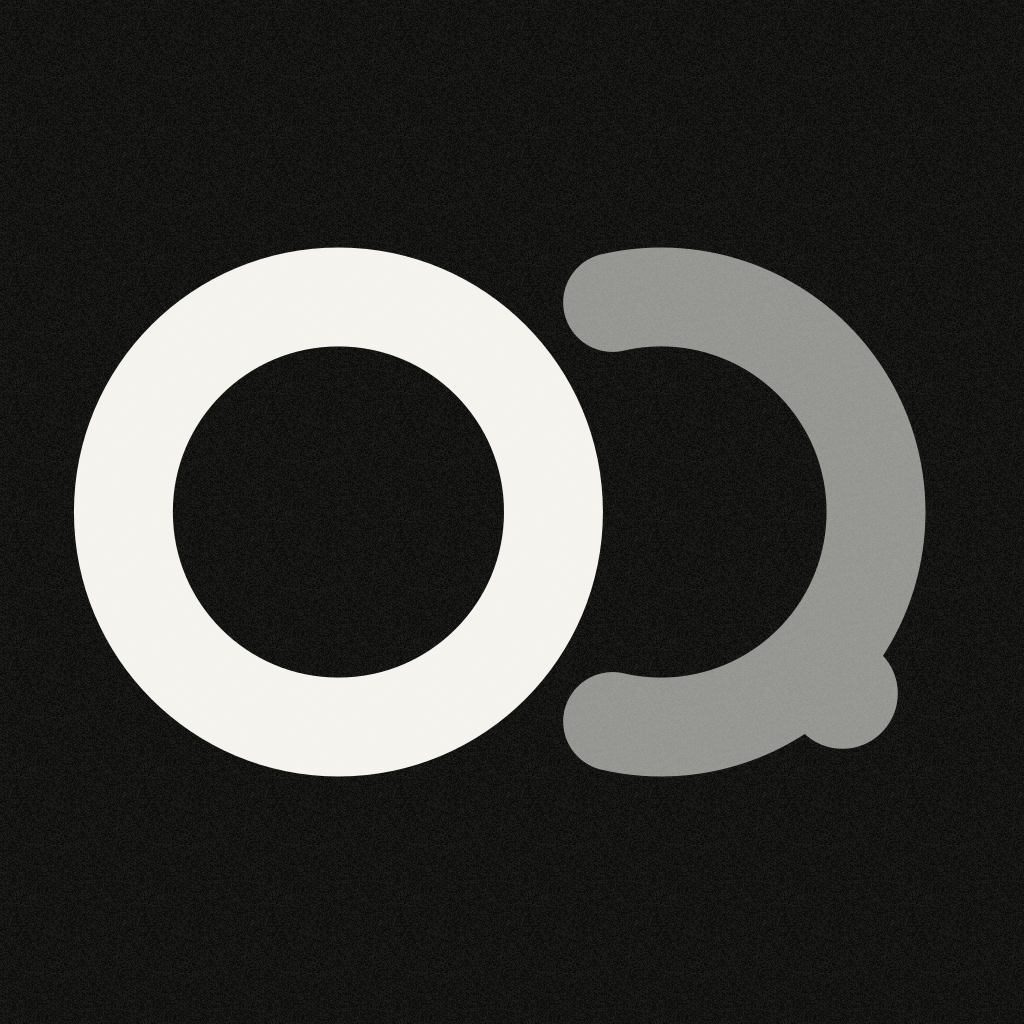
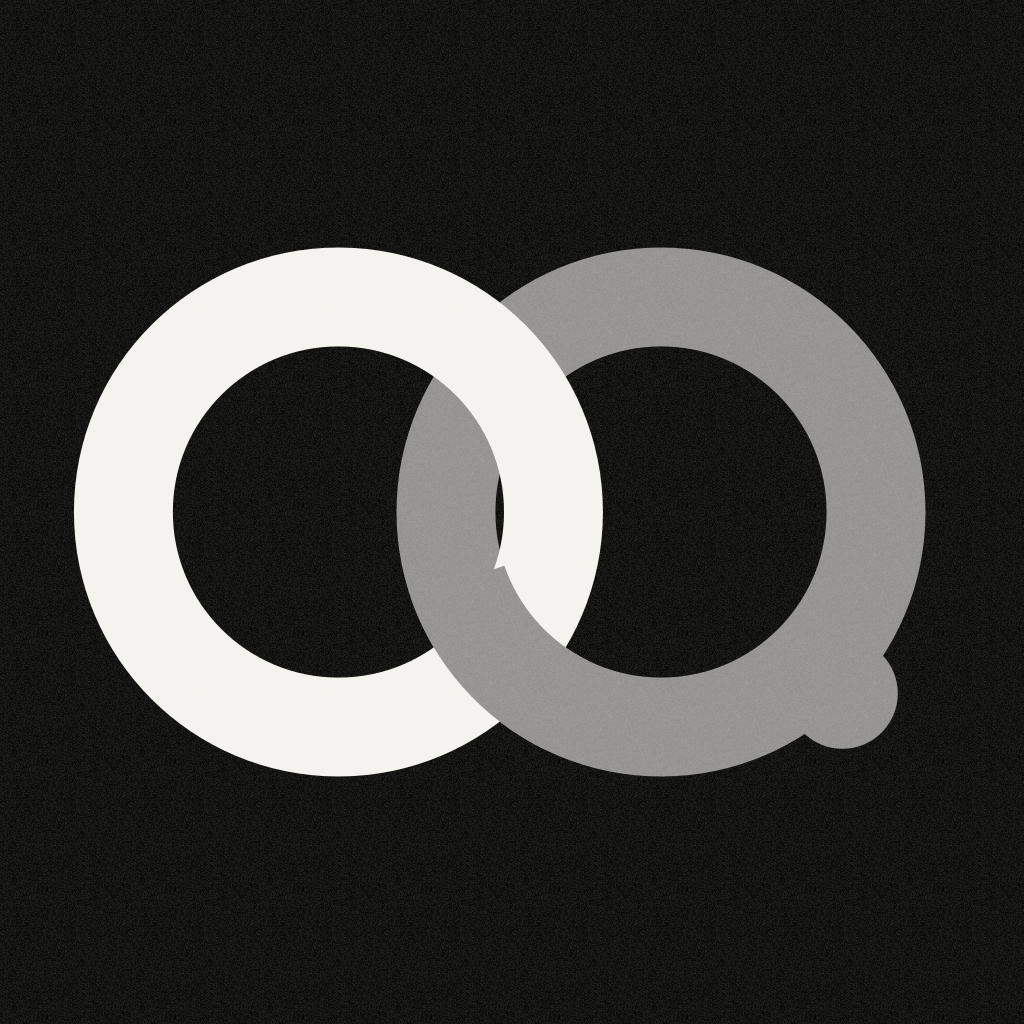
The rings interlock for real: a true chain weave, everything still round
O over Q at the top crossing, Q over O at the bottom — done by repainting
the Q's bottom-crossing arc segment over the O with seamless butt joins,
so no edge is ever cut flat. The Q's 58% strength becomes a solid
field-blend (translucency would tint where it now covers the O); the
in-app twin computes the blend from theme tokens so Paper mode holds.
Single-color silhouettes (themed icon, notification) keep the open-arc
form, where the weave can't read anyway.

Changed region(s): [[0.375, 0.375, 0.5938, 0.75], [0.4688, 0.25, 0.5938, 0.375]]

diff --git a/apps/mobile/src/components/Logo.tsx b/apps/mobile/src/components/Logo.tsx
@@ -31,10 +31,21 @@ const NUB = {
   cy: CY + NUB_DIST * Math.SQRT1_2,
   r: W * 0.56,
 };
-// The Q is a true arc with round end-caps — ±103° off the leftward axis leaves
-// the breathing gap toward the O without any flat mask-cut edges.
-const ARC = (103 * Math.PI) / 180;
-const Q_PATH = `M ${CXB + R * Math.cos(-ARC)} ${CY + R * Math.sin(-ARC)} A ${R} ${R} 0 1 1 ${CXB + R * Math.cos(ARC)} ${CY + R * Math.sin(ARC)}`;
+// True chain interlock: full Q circle under the O, then the Q's
+// bottom-crossing segment repainted on top (butt caps — the ends land on the
+// visible Q band in the same color, so the joins are seamless). Crossings sit
+// at ±acos(-D/2R) = ±138.6° off the Q's leftward axis; the overlay spans ±22.5°.
+const SEG_S = ((138.59 - 22.5) * Math.PI) / 180;
+const SEG_E = ((138.59 + 22.5) * Math.PI) / 180;
+const SEG_PATH = `M ${CXB + R * Math.cos(SEG_S)} ${CY + R * Math.sin(SEG_S)} A ${R} ${R} 0 0 1 ${CXB + R * Math.cos(SEG_E)} ${CY + R * Math.sin(SEG_E)}`;
+
+/** Solid 58% blend of ink toward the field — the weave paints the Q OVER the O
+ * at one crossing, so translucency would tint instead of cover. */
+function mix(fg: string, bg: string, t: number) {
+  const c = (h: string, i: number) => parseInt(h.slice(i, i + 2), 16);
+  const ch = (i: number) => Math.round(c(fg, i) * t + c(bg, i) * (1 - t));
+  return `rgb(${ch(1)},${ch(3)},${ch(5)})`;
+}
 const PAD = 4;
 const VB_X = CXA - R - W / 2 - PAD;
 const VB_Y = CY - R - W / 2 - PAD;
@@ -46,18 +57,18 @@ export const LOGO_MARK_ASPECT = VB_H / VB_W;
 function LogoMark({ width }: { width: number }) {
   const { colors } = useTheme();
   // Deliberately hue-free (the mark doubles as the umbrella company brand):
-  // one ink at two strengths — text color full for the front ring, ~58% for
-  // the Q ring — so it sits on Volt and on any future app's colorway alike.
+  // one ink at two strengths — text color full for the front ring, a solid 58%
+  // field-blend for the Q — so it sits on Volt and any future colorway alike.
   const ink = colors.text;
+  const duo = mix(colors.text, colors.background, 0.58);
 
   return (
     <View accessibilityRole="image" accessibilityLabel="DuoQueue">
       <Svg width={width} height={width * LOGO_MARK_ASPECT} viewBox={`${VB_X} ${VB_Y} ${VB_W} ${VB_H}`}>
-        <G opacity={0.58}>
-          <Path d={Q_PATH} fill="none" stroke={ink} strokeWidth={W} strokeLinecap="round" />
-          <Circle cx={NUB.cx} cy={NUB.cy} r={NUB.r} fill={ink} />
-        </G>
+        <Circle cx={CXB} cy={CY} r={R} fill="none" stroke={duo} strokeWidth={W} />
+        <Circle cx={NUB.cx} cy={NUB.cy} r={NUB.r} fill={duo} />
         <Circle cx={CXA} cy={CY} r={R} fill="none" stroke={ink} strokeWidth={W} />
+        <Path d={SEG_PATH} fill="none" stroke={duo} strokeWidth={W} />
       </Svg>
     </View>
   );
